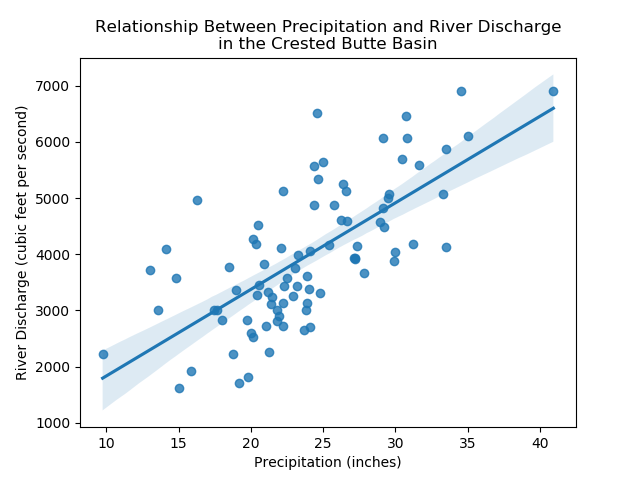
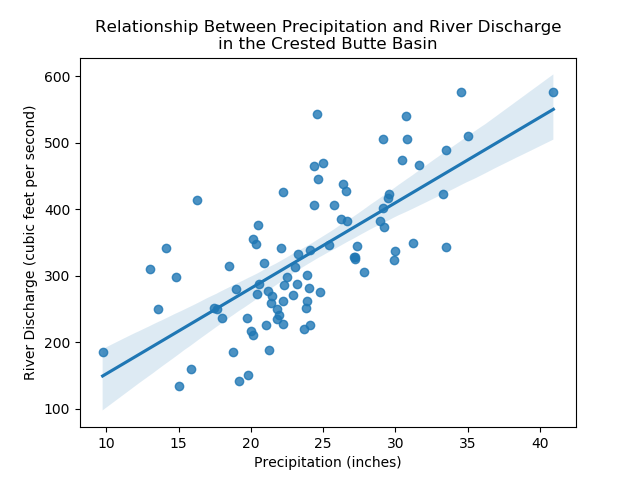
solved data for the total discharge volume

diff --git a/runoff/parse_runoff_data.py b/runoff/parse_runoff_data.py
@@ -3,6 +3,38 @@
 import csv
 import matplotlib.pyplot as plt
 
+def getmultiplier(month=0, year=0):
+  """
+  getmultiplier - finds the total number of seconds in a given month of a given year
+
+  args: month (by default, month=0)
+        year  (by default, year=0)
+
+  returns: int indicating the number of seconds in the given month
+  """
+  
+  # Seconds per day
+  spd = 86400
+
+  days = 0
+  
+  # If the month is Jan, March, May, July, August, October, or December, it has 31 days
+  if month in [1, 3, 5, 7, 8, 10, 12]:
+    days = 31
+  # Else, if the month is April, June, September, or November, it has 30 days
+  elif month in [4, 6, 9, 11]:
+    days = 30
+  # Otherwise, the month is Feb and is a trouble maker
+  else:
+    # Is it a leap year?
+    if year % 4 == 0:
+      days = 29
+    else:
+      days = 28
+
+  # Find total number of seconds in the month and return
+  return spd*days
+  
 
 # Class implementation for water years used in other (of my) code
 
@@ -110,7 +142,7 @@ def parse(filename=''):
           added = False
           for water_year in water_years:
             if year == water_year.getYear():
-              water_year.addMonth(month, runoff)
+              water_year.addMonth(month, runoff*getmultiplier(month, year if month <= 10 else year-1))
               added = True
           if not added:
              water_years.append(WaterYear(year, month, runoff))
@@ -149,7 +181,7 @@ def output_to_file(water_years=[]):
   returns: void
   """
 
-  with open('runoff_output.csv', 'w') as outf:
+  with open('runoff_output1.csv', 'w') as outf:
     for year in water_years:
       outf.write(str(year))
 
